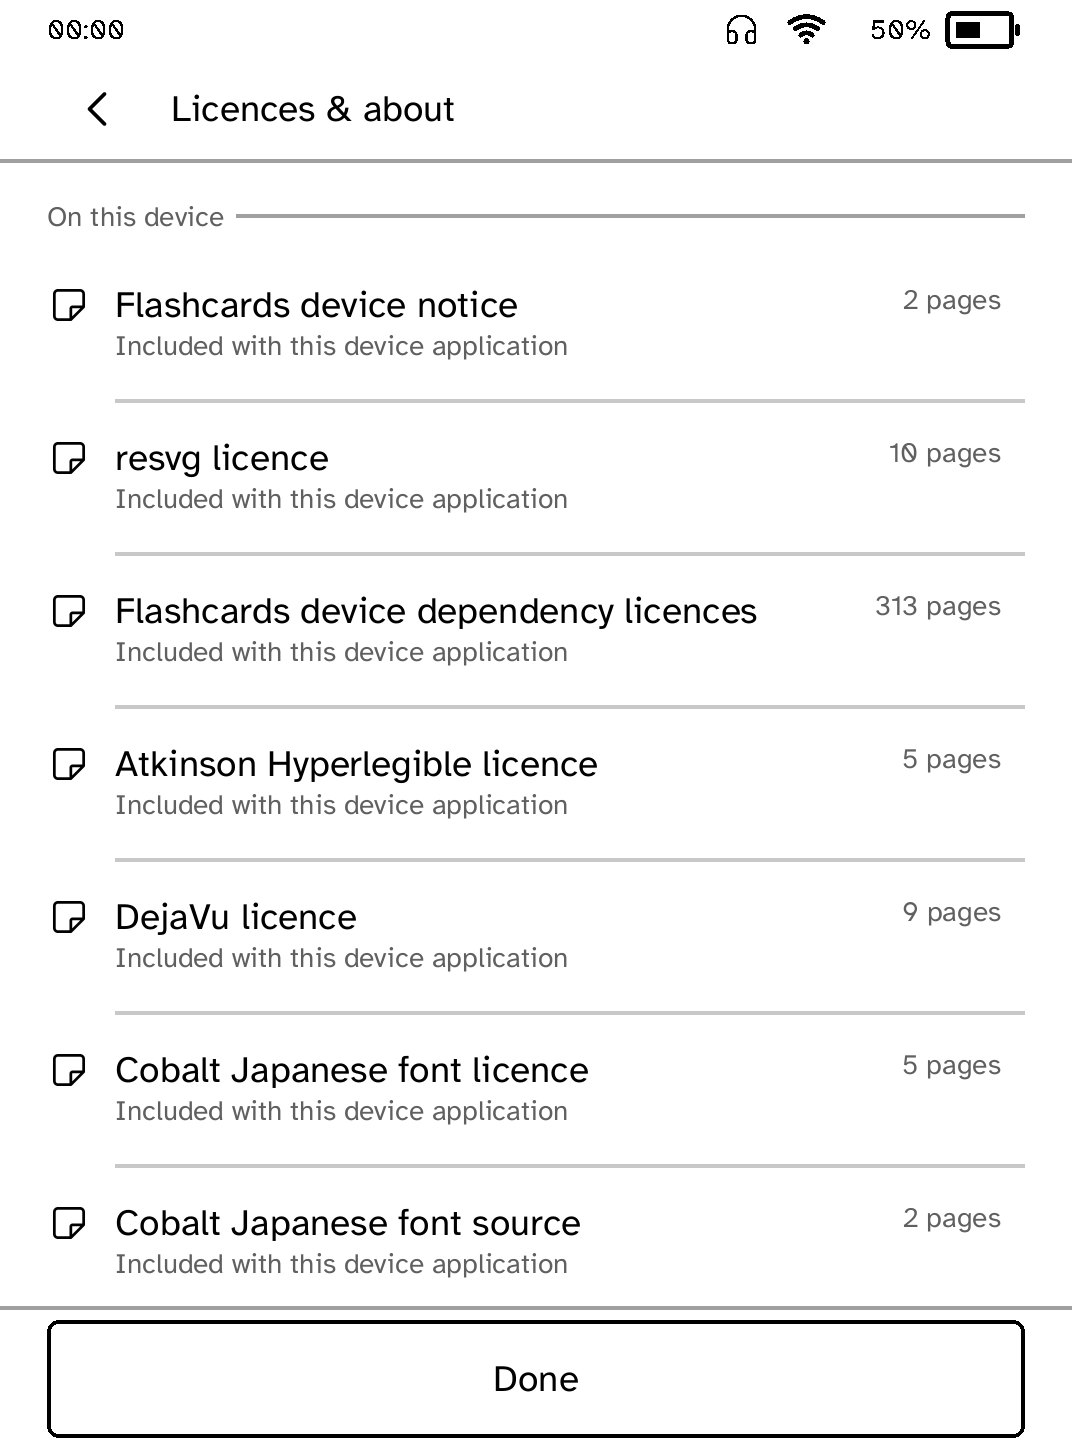
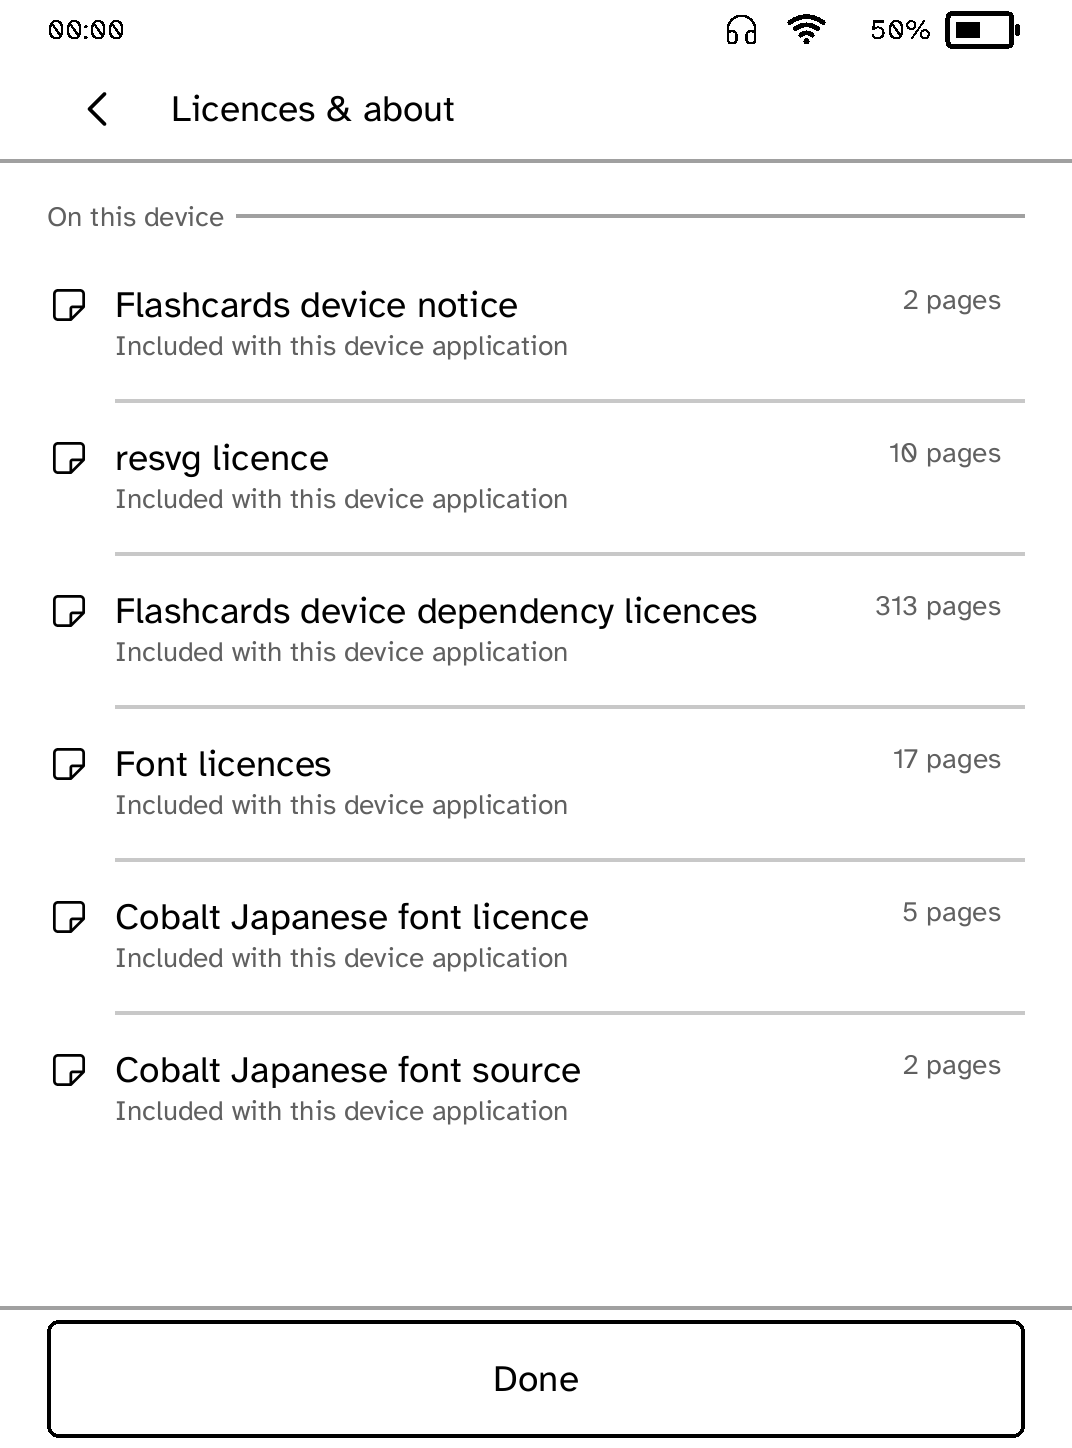
Ship the Literata licence wherever Literata now ships
Literata became the serif every binary falls back to, but the device package
still carried only the Atkinson and DejaVu licences, and Flashcards' notices
on the reader and in the host importer did not name it. The Open Font
Licence travels with every copy, so the package now carries the licence and
the subset recipe, and both Flashcards notice lists include it.

On the reader the three Latin font licences become one Font licences
document, each under its own heading. Licences & about is a row per
document, and an eighth row did not fit a six-inch panel.

diff --git a/crates/kobo-flashcards-format/src/lib.rs b/crates/kobo-flashcards-format/src/lib.rs
@@ -42,21 +42,35 @@ pub const DEVICE_DEPENDENCY_LICENSES: &str =
 pub const ATKINSON_LICENSE: &str =
     include_str!("../../kobo-text/fonts/LICENSE-AtkinsonHyperlegible.txt");
 pub const DEJAVU_LICENSE: &str = include_str!("../../kobo-text/fonts/LICENSE-DejaVu.txt");
+pub const LITERATA_LICENSE: &str = include_str!("../../kobo-text/fonts/LICENSE-Literata.txt");
+/// The terms of every Latin face the device application draws with, as one
+/// document under a heading each.
+///
+/// One entry rather than three, because the reader's Licences & about list is
+/// a row per document, and with Literata added as the serif fallback a row
+/// each no longer fit a six-inch panel.
+pub const FONT_LICENSES: &str = concat!(
+    "Atkinson Hyperlegible\n\n",
+    include_str!("../../kobo-text/fonts/LICENSE-AtkinsonHyperlegible.txt"),
+    "\nDejaVu Sans\n\n",
+    include_str!("../../kobo-text/fonts/LICENSE-DejaVu.txt"),
+    "\nLiterata\n\n",
+    include_str!("../../kobo-text/fonts/LICENSE-Literata.txt"),
+);
 pub const JAPANESE_FONT: &[u8] = include_bytes!("../fonts/CobaltJapanese-Regular.otf");
 pub const JAPANESE_FONT_LICENSE: &str =
     include_str!("../../../licenses/LICENSE-Cobalt-Japanese-font.txt");
 pub const JAPANESE_FONT_SOURCE: &str =
     include_str!("../../../licenses/SOURCE-Cobalt-Japanese-font.md");
 
-pub const DEVICE_DISTRIBUTION_DOCUMENTS: [(&str, &str); 7] = [
+pub const DEVICE_DISTRIBUTION_DOCUMENTS: [(&str, &str); 6] = [
     ("Flashcards device notice", DEVICE_NOTICE),
     ("resvg licence", RESVG_LICENSE),
     (
         "Flashcards device dependency licences",
         DEVICE_DEPENDENCY_LICENSES,
     ),
-    ("Atkinson Hyperlegible licence", ATKINSON_LICENSE),
-    ("DejaVu licence", DEJAVU_LICENSE),
+    ("Font licences", FONT_LICENSES),
     ("Cobalt Japanese font licence", JAPANESE_FONT_LICENSE),
     ("Cobalt Japanese font source", JAPANESE_FONT_SOURCE),
 ];

diff --git a/crates/kobo-flashcards-import/src/main.rs b/crates/kobo-flashcards-import/src/main.rs
@@ -3,7 +3,8 @@
 mod preview;
 
 use kobo_flashcards_format::{
-    ATKINSON_LICENSE, DEJAVU_LICENSE, JAPANESE_FONT_LICENSE, JAPANESE_FONT_SOURCE, RESVG_LICENSE,
+    ATKINSON_LICENSE, DEJAVU_LICENSE, JAPANESE_FONT_LICENSE, JAPANESE_FONT_SOURCE,
+    LITERATA_LICENSE, RESVG_LICENSE,
 };
 use kobo_flashcards_import::{
     export_local_review_log, import, stage_for_kobo, verify_bundle, ImportMode, ImportOptions,
@@ -32,7 +33,7 @@ const COBALT_SOURCE_COMMIT: &str = match option_env!("COBALT_SOURCE_COMMIT") {
     Some(commit) => commit,
     None => "unrecorded-development-build",
 };
-const HOST_DISTRIBUTION_DOCUMENTS: [(&str, &str); 10] = [
+const HOST_DISTRIBUTION_DOCUMENTS: [(&str, &str); 11] = [
     ("Host converter notice", ANKI_NOTICE),
     ("Anki licence", ANKI_LICENSE),
     ("Anki corresponding source", ANKI_SOURCE),
@@ -40,6 +41,7 @@ const HOST_DISTRIBUTION_DOCUMENTS: [(&str, &str); 10] = [
     ("resvg licence", RESVG_LICENSE),
     ("Atkinson Hyperlegible licence", ATKINSON_LICENSE),
     ("DejaVu licence", DEJAVU_LICENSE),
+    ("Literata licence", LITERATA_LICENSE),
     ("Cobalt Japanese font licence", JAPANESE_FONT_LICENSE),
     ("Cobalt Japanese font source", JAPANESE_FONT_SOURCE),
     (

diff --git a/crates/kobo-cli/src/main.rs b/crates/kobo-cli/src/main.rs
@@ -4752,6 +4752,19 @@ fn build_package_bytes() -> Result<BuiltPackage, String> {
         include_str!("../../kobo-text/fonts/LICENSE-DejaVu.txt"),
         false,
     ));
+    // The serif every application falls back to when the reader has none of
+    // its own. Like the two faces above it is compiled into binaries this
+    // package installs, and the Open Font License travels with every copy.
+    members.push(text_member(
+        "licenses/LICENSE-Literata.txt",
+        include_str!("../../kobo-text/fonts/LICENSE-Literata.txt"),
+        false,
+    ));
+    members.push(text_member(
+        "licenses/SOURCE-Literata.md",
+        include_str!("../../../licenses/SOURCE-Literata.md"),
+        false,
+    ));
     members.push(text_member(
         "VERSION",
         &format!("{}\n", env!("CARGO_PKG_VERSION")),

diff --git a/licenses/NOTICE-Flashcards-device.md b/licenses/NOTICE-Flashcards-device.md
@@ -17,9 +17,9 @@ metadata as inert data and never executes or resolves it.
 The device links resvg/usvg only to verify that SVG sources referenced by the
 bounded due queue reproduce their digest-addressed PNG bytes. It displays the
 PNG rather than executing or resolving SVG content. Applicable resvg,
-Atkinson, DejaVu, Cobalt Japanese, and Rust dependency terms and source pins
-are included in the adjacent device licence documents and exposed by the
-application's **Licences & about** screen.
+Atkinson, DejaVu, Literata, Cobalt Japanese, and Rust dependency terms and
+source pins are included in the adjacent device licence documents and exposed
+by the application's **Licences & about** screen.
 
 Flashcards and the `CBFLASH` format are Cobalt components licensed under
 AGPL-3.0-only.

diff --git a/licenses/NOTICE-Flashcards-Anki.md b/licenses/NOTICE-Flashcards-Anki.md
@@ -18,8 +18,8 @@ Corresponding-source retrieval and build instructions are in
 helper are in `LICENSE-Flashcards-host-dependencies.txt`; the linked Anki
 packages are covered separately by this notice, `LICENSE-Anki.txt`, and the
 source instructions. The device application's resolved dependency notices are
-in `LICENSE-Flashcards-device-dependencies.txt`. Atkinson Hyperlegible and
-DejaVu font terms are in the `kobo-text/fonts` licence files. Cobalt Japanese
+in `LICENSE-Flashcards-device-dependencies.txt`. Atkinson Hyperlegible,
+DejaVu and Literata font terms are in the `kobo-text/fonts` licence files. Cobalt Japanese
 font terms and the exact source/subsetting recipe are in the files named
 above.
 
